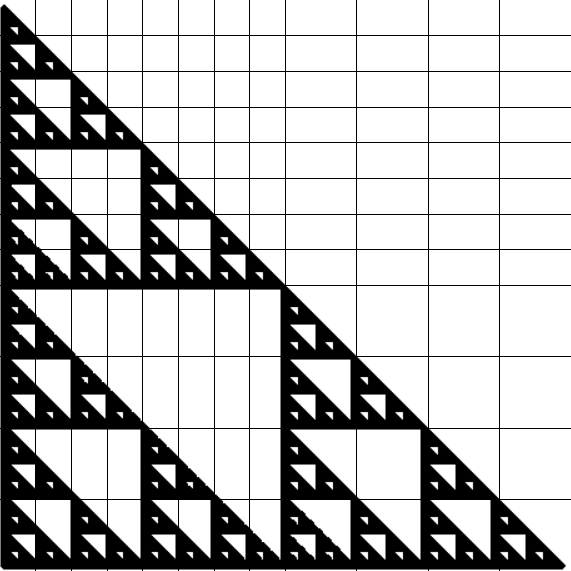
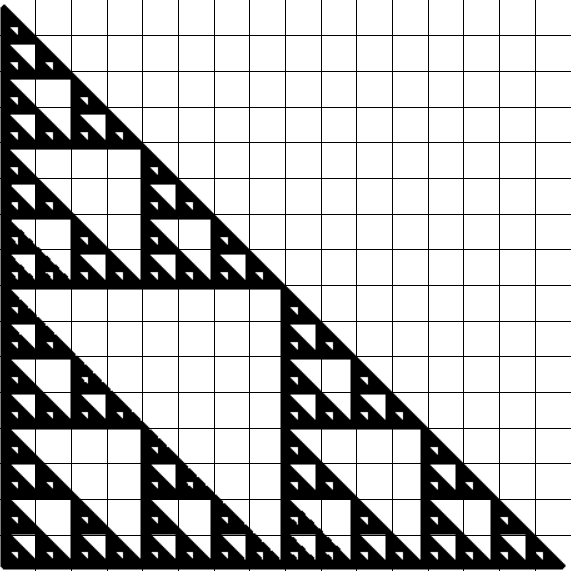
vhk

diff --git a/src/sample/Controller.java b/src/sample/Controller.java
@@ -71,14 +71,15 @@ public void displayImage(){
     String fotoYoluString=fotoğrafYolu.getText();
     int tekrarSayısı=Integer.parseInt(adımSayısı.getText());
     File file = new File(fotoYoluString);
-    Action.CalculateFractalDimension(tekrarSayısı, new Picture(file));
-
     Image image = new Image(file.toURI().toString());
     imageview0.setImage(image);
+    Action.GridMaker(new Picture(file),tekrarSayısı);
+    Action.CalculateFractalDimension(tekrarSayısı, new Picture(file));}
 
-
-
-
+public void hesapla(){
+    imageview01.setImage(new Image(getClass().getResourceAsStream("a1.png")));
+    imageview02.setImage(new Image(getClass().getResourceAsStream("a2.png")));
+    imageview03.setImage(new Image(getClass().getResourceAsStream("a3.png")));
 
 }
 }

diff --git a/src/Action/Action.java b/src/Action/Action.java
@@ -77,10 +77,10 @@ public class Action {
         Color renk1=new Color(0,0,0);
 
        for(int m=1;m<=tekrarSayısı;m+=1){
-        for(int n=1;n<tekrarSayısı;n+=1)
+        for(int n=1;n<(int)(Math.pow(2,tekrarSayısı));n+=1)
             for(int i=0; i<foto.height();i+=1)
                 for(int j=0; j<foto.width(); j+=1) {
-                    if(i==(int)((n*foto.width())/(Math.pow(2,m))) || j==(int)((n*foto.height())/((Math.pow(2,m)))) )
+                    if(i==(int)((n*(foto.width())/(Math.pow(2,m)))) || j==(int)((n*(foto.height())/((Math.pow(2,m))))) )
                         renk1=new Color(0,0,0);
                     else
                         renk1=foto.get( j, i);

diff --git a/src/sample/Main.java b/src/sample/Main.java
@@ -24,6 +24,7 @@ public class Main extends Application {
     public static void main(String[] args) {
         launch(args);
 
-        Action.GridMaker(new Picture("C:/Users/Sinem Dönmez/OneDrive/Belgeler/GitHub/FractalDimensionWithBoxCountingMethod-/src/sample/a.png"),8);
+        //Action.GridMaker(new Picture("C:/Users/Sinem Dönmez/OneDrive/Belgeler/GitHub/FractalDimensionWithBoxCountingMethod-/src/sample/a.png"),8);
+        //Action.CalculateFractalDimension(8,new Picture("C:/Users/Sinem Dönmez/OneDrive/Belgeler/GitHub/FractalDimensionWithBoxCountingMethod-/src/sample/a.png"));
     }
 }
